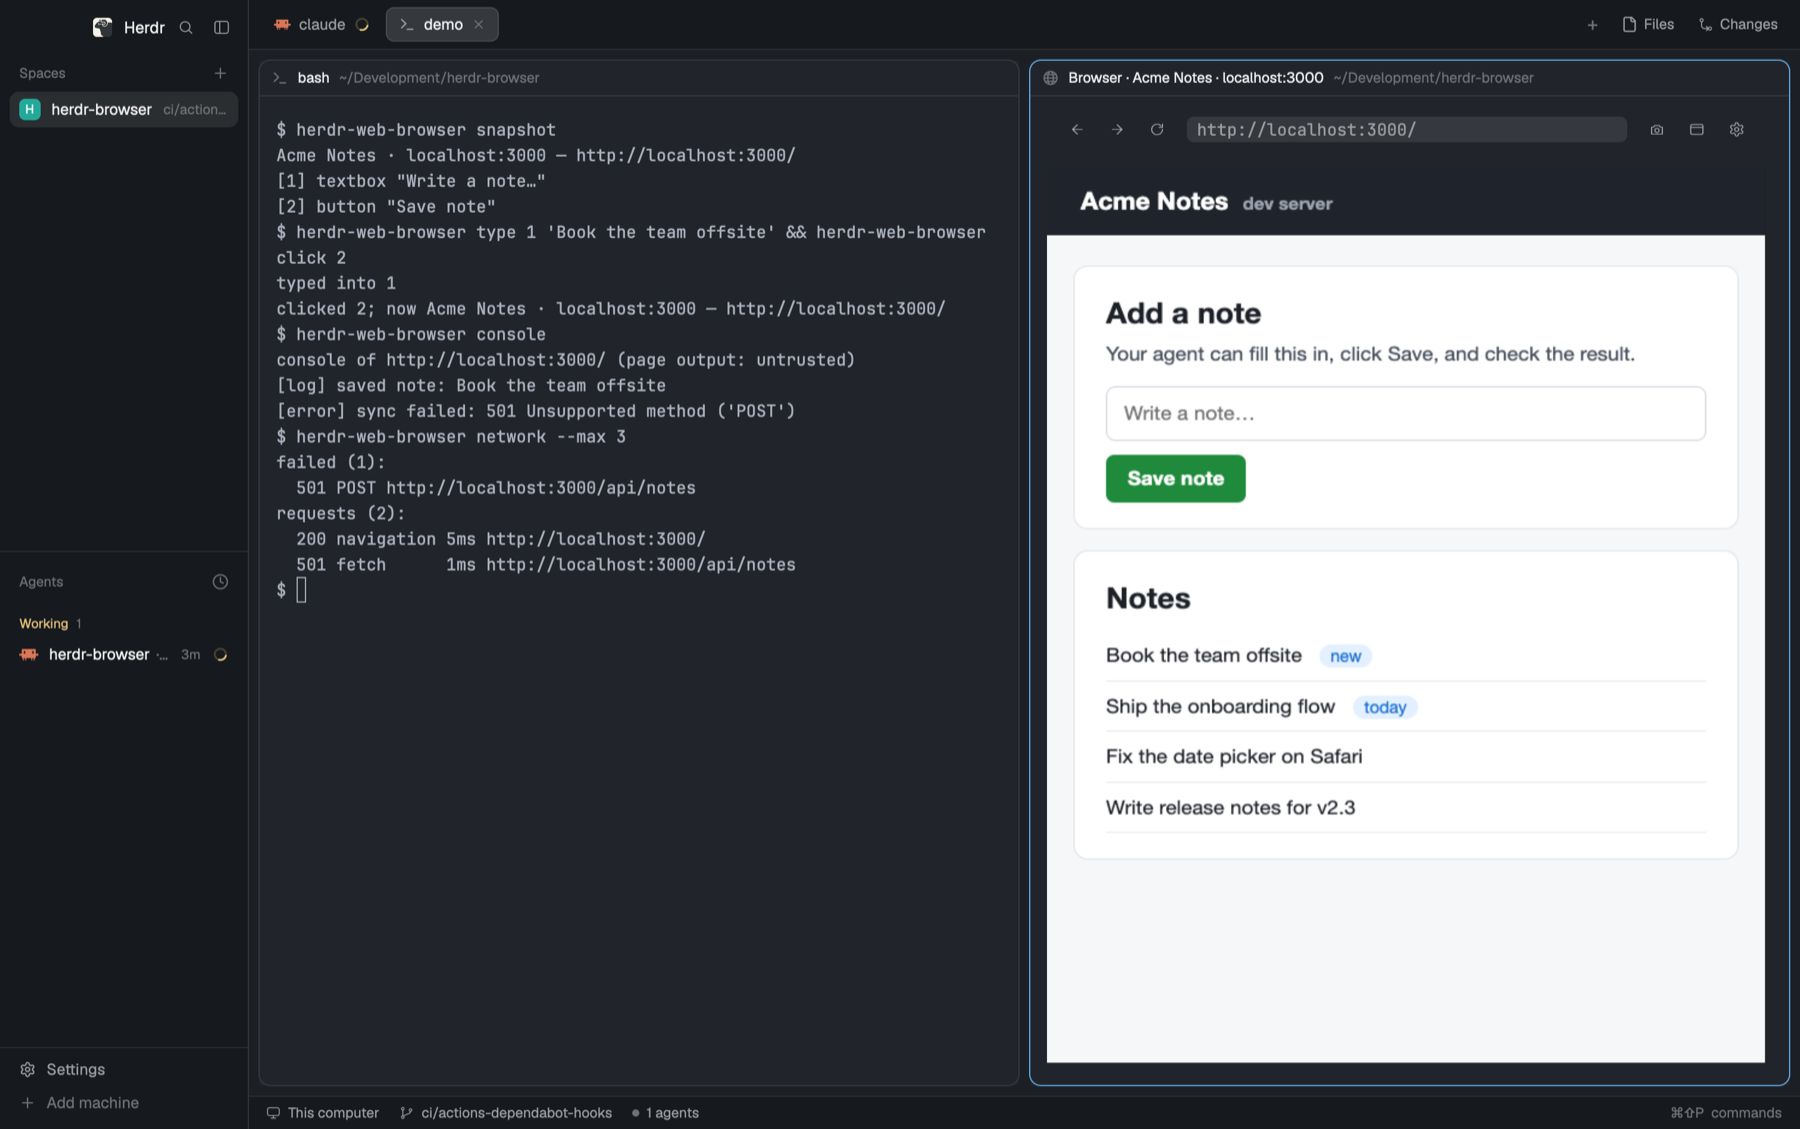
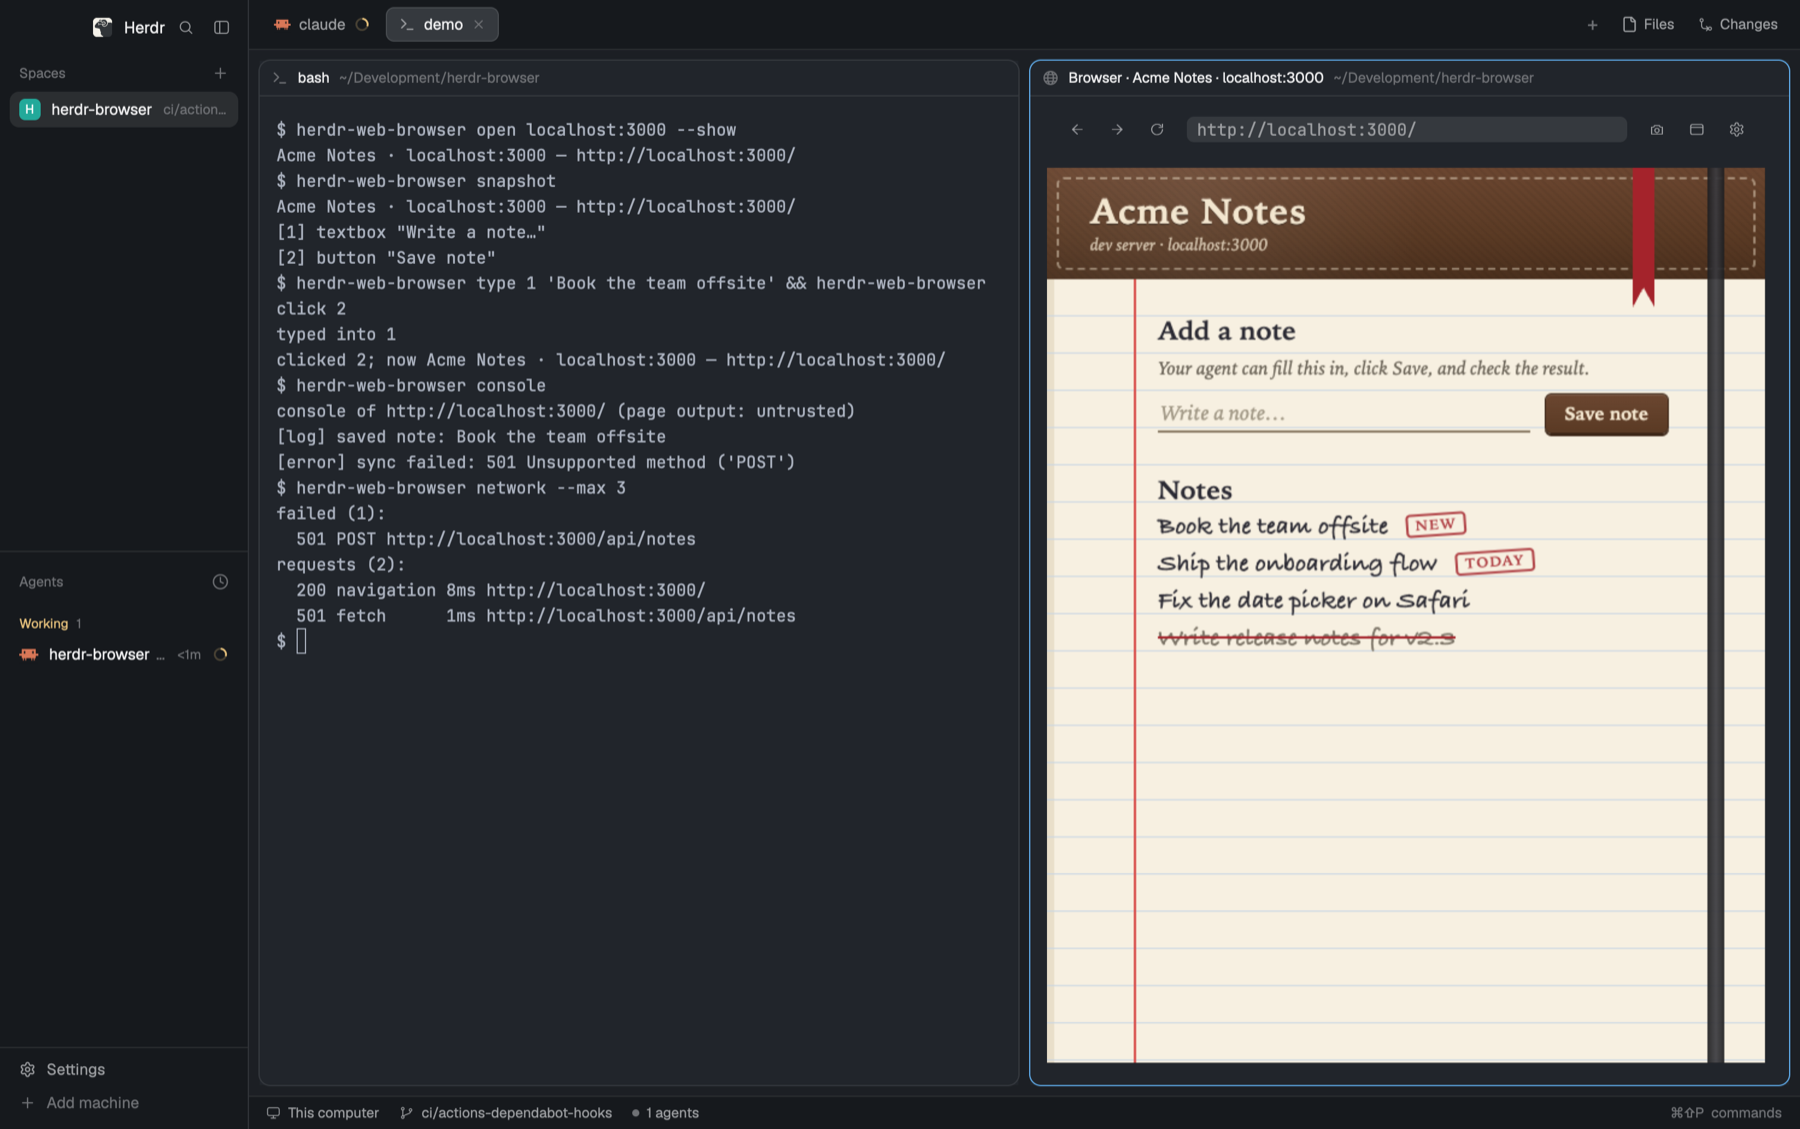
docs: notebook demo app, retaken screenshots, clearer feature headings
The demo app (docs/demo/) is now a full-page Moleskine-style notebook with
a leather cover, so it no longer looks like a misaligned browser bar. All
README screenshots are retaken with it, and the feature headings say what
each feature is ("Import logins (cookies) from Chrome").

Changed region(s): [[0.1556, 0.124, 0.9956, 0.961], [0.28, 0.093, 0.4044, 0.124]]

diff --git a/docs/demo/index.html b/docs/demo/index.html
@@ -1,0 +1,83 @@
+<!doctype html>
+<html lang="en">
+<head>
+<meta charset="utf-8">
+<title>Acme Notes · localhost:3000</title>
+<!-- The demo app in the README screenshots. Serve it with:
+     python3 -m http.server 3000 --directory docs/demo
+     Saving a note logs to the console and POSTs to /api/notes, which the plain
+     http.server answers with 501: something for `console` and `network` to catch. -->
+<style>
+  :root { color-scheme: light; --paper: #f7f0e1; --rule: #c9d6e3; --margin: #d9534f; --ink: #2b2a33; --leather: #5a3a24; }
+  * { box-sizing: border-box; }
+  body { margin: 0; font: 18px/32px "Iowan Old Style", "Palatino", Georgia, serif; color: var(--ink); background: var(--paper); }
+  .book { position: relative; min-height: 100vh; overflow: hidden; background: var(--paper); box-shadow: 6px 0 0 #e9dfca inset; display: flex; flex-direction: column; }
+  /* Elastic strap down the right-hand edge. */
+  .book::after { content: ""; position: absolute; top: 0; bottom: 0; right: 34px; width: 14px; background: linear-gradient(90deg, #1d1d1f, #3b3b40 50%, #1d1d1f); opacity: .92; }
+  header {
+    position: relative; padding: 22px 64px 20px 36px; color: #f3e6cf;
+    background:
+      radial-gradient(circle at 20% 30%, rgba(255,255,255,.08), transparent 40%),
+      repeating-linear-gradient(45deg, rgba(0,0,0,.05) 0 2px, transparent 2px 5px),
+      linear-gradient(180deg, #6b4630, var(--leather) 60%, #4a2f1d);
+  }
+  /* Stitching just inside the leather's edge. */
+  header::before { content: ""; position: absolute; inset: 8px; border: 2px dashed rgba(243,230,207,.45); border-radius: 6px; pointer-events: none; }
+  header h1 { margin: 0; font-size: 30px; letter-spacing: .5px; font-weight: 600; text-shadow: 0 1px 0 rgba(0,0,0,.5), 0 -1px 0 rgba(255,255,255,.12); }
+  header p { margin: 2px 0 0; font-size: 14px; font-style: italic; opacity: .75; line-height: 20px; }
+  /* Ribbon bookmark hanging over the page. */
+  .ribbon { position: absolute; top: 0; right: 92px; width: 18px; height: 120px; background: #a4232b; clip-path: polygon(0 0, 100% 0, 100% 100%, 50% 86%, 0 100%); z-index: 2; box-shadow: 0 2px 4px rgba(0,0,0,.3); }
+  main {
+    padding: 28px 80px 40px 92px; position: relative; flex: 1;
+    background: linear-gradient(90deg, transparent 72px, var(--margin) 72px, var(--margin) 74px, transparent 74px), repeating-linear-gradient(180deg, transparent 0 31px, var(--rule) 31px 32px);
+    background-attachment: local;
+  }
+  h2 { margin: 0; font-size: 22px; line-height: 32px; font-weight: 600; }
+  .hint { margin: 0 0 6px; font-style: italic; color: #6b6458; font-size: 16px; }
+  form { display: flex; gap: 12px; align-items: center; margin-bottom: 32px; }
+  input { flex: 1; font: inherit; color: var(--ink); background: transparent; border: 0; border-bottom: 2px solid #8a7b64; padding: 0 2px; height: 32px; outline: none; }
+  input::placeholder { color: #a39a88; font-style: italic; }
+  button { font: 600 15px/1 "Iowan Old Style", Georgia, serif; color: #f3e6cf; background: linear-gradient(180deg, #6b4630, var(--leather)); border: 1px solid #3c2617; border-radius: 6px; padding: 9px 16px; box-shadow: 0 2px 0 #3c2617, inset 0 1px 0 rgba(255,255,255,.15); cursor: pointer; }
+  ul { list-style: none; margin: 0; padding: 0; }
+  li { height: 32px; font-family: "Bradley Hand", "Segoe Print", "Marker Felt", cursive; font-size: 21px; }
+  .tag { margin-left: 10px; font: 600 12px/1 "Iowan Old Style", Georgia, serif; letter-spacing: 1px; text-transform: uppercase; color: #a4232b; border: 2px solid #a4232b; border-radius: 4px; padding: 2px 6px; display: inline-block; transform: rotate(-4deg) translateY(-3px); opacity: .85; }
+  .done { text-decoration: line-through; text-decoration-color: #a4232b; color: #7d7568; }
+</style>
+</head>
+<body>
+<div class="book">
+  <div class="ribbon"></div>
+  <header><h1>Acme Notes</h1><p>dev server · localhost:3000</p></header>
+  <main>
+    <h2>Add a note</h2>
+    <p class="hint">Your agent can fill this in, click Save, and check the result.</p>
+    <form id="f"><input id="note" placeholder="Write a note…" aria-label="Write a note…"><button>Save note</button></form>
+    <h2>Notes</h2>
+    <ul id="list">
+      <li>Ship the onboarding flow <span class="tag">today</span></li>
+      <li>Fix the date picker on Safari</li>
+      <li class="done">Write release notes for v2.3</li>
+    </ul>
+  </main>
+</div>
+<script>
+  document.getElementById("f").addEventListener("submit", (e) => {
+    e.preventDefault();
+    const input = document.getElementById("note");
+    const text = input.value.trim();
+    if (!text) return;
+    const li = document.createElement("li");
+    li.textContent = text + " ";
+    const tag = document.createElement("span");
+    tag.className = "tag";
+    tag.textContent = "new";
+    li.append(tag);
+    document.getElementById("list").prepend(li);
+    console.log("saved note:", text);
+    fetch("/api/notes", { method: "POST", body: text })
+      .then((r) => { if (!r.ok) console.error("sync failed:", r.status, r.statusText); });
+    input.value = "";
+  });
+</script>
+</body>
+</html>

diff --git a/README.md b/README.md
@@ -6,31 +6,31 @@ A web browser built into [herdr](https://herdr.dev). Pages open in a pane next t
 
 ## What it does
 
-### It's part of herdr
+### Opens from herdr's + menu
 
 Pick **Browser** from herdr desktop's + menu and it opens as a split beside your agent, on Google or a home page you choose. There's no extra window to manage. It follows your herdr theme, each agent gets its own tab, and Chrome stays hidden until you click the window button.
 
 ![Browser in herdr desktop's + menu, next to the coding agents](docs/screenshots/plus-menu.png)
 
-### Your agent uses it in every project
+### Web previews for every agent, in every project
 
 Run `install-agents` once and Claude Code, Codex, OpenCode and Pi open their previews here in every project. Ask "show me localhost:3000" and the page appears beside the agent. The agent can read the page, click buttons, fill in forms and take screenshots.
 
-### Your agent can debug what it sees
+### Console and network debugging for agents
 
 `herdr-web-browser console` gives the agent the page's console output and errors with stack traces. `herdr-web-browser network` gives it every request with its status code, failures first. The agent can fix the code, reload and check again while you watch, with no DevTools.
 
-### You can show the agent what you mean
+### Send screenshots and selections to your agent
 
 One click sends the agent a screenshot. A shortcut or Chrome's right-click menu sends the page text or your selection. The agent can also ask you to click an element on the page and gets back exactly which one you picked.
 
-### You don't sign in again
+### Import logins (cookies) from Chrome
 
 The cog in the view opens settings. Search and tick the sites you're signed in to in Chrome, and those logins come across. Only the sites you tick are copied, because every agent using the browser can use them.
 
 ![Browser settings: pick a Chrome profile, then search and tick the sites to sign in to](docs/screenshots/settings.png)
 
-### Your own Chrome stays untouched
+### Separate from your own Chrome
 
 It runs its own copy of Chrome ([Chrome for Testing](https://developer.chrome.com/blog/chrome-for-testing)) with its own profile, so your everyday browser, its windows and its logins are left alone. Chrome's control port only accepts connections from your machine.
 
